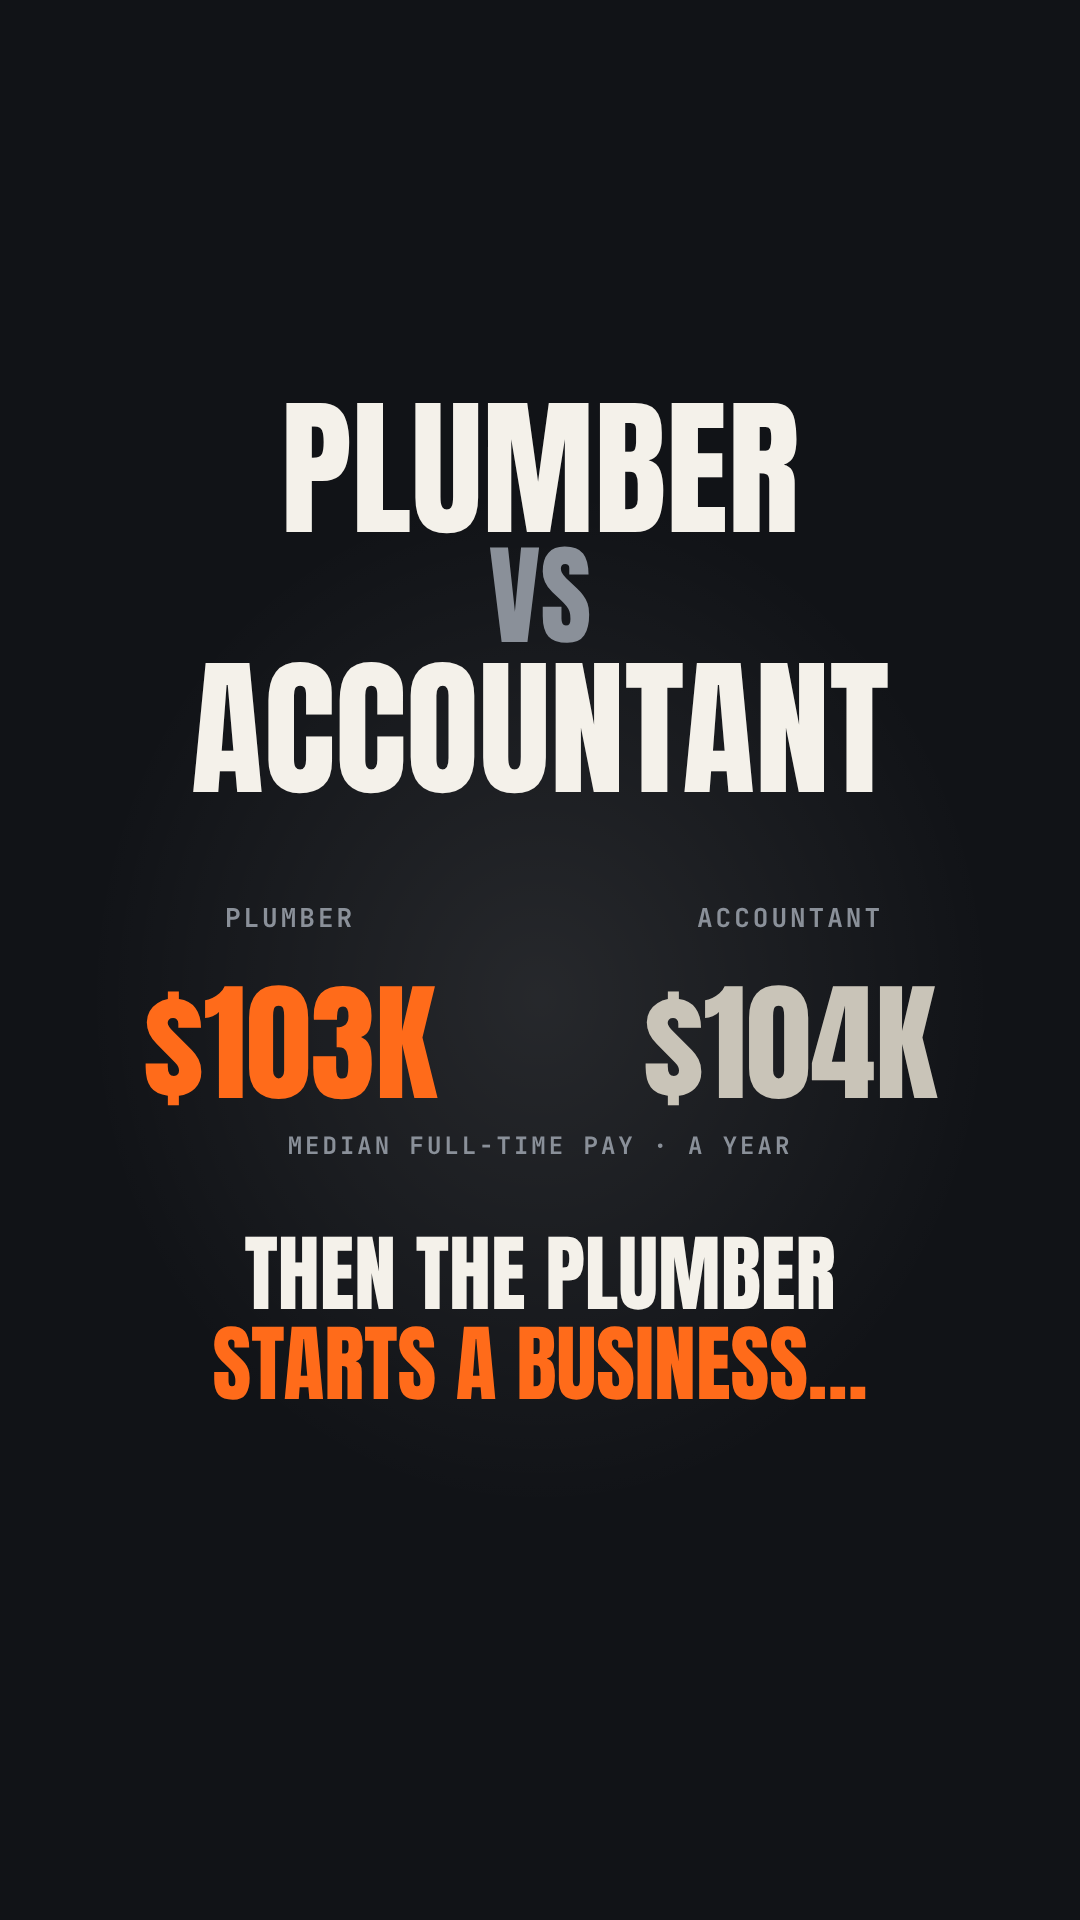
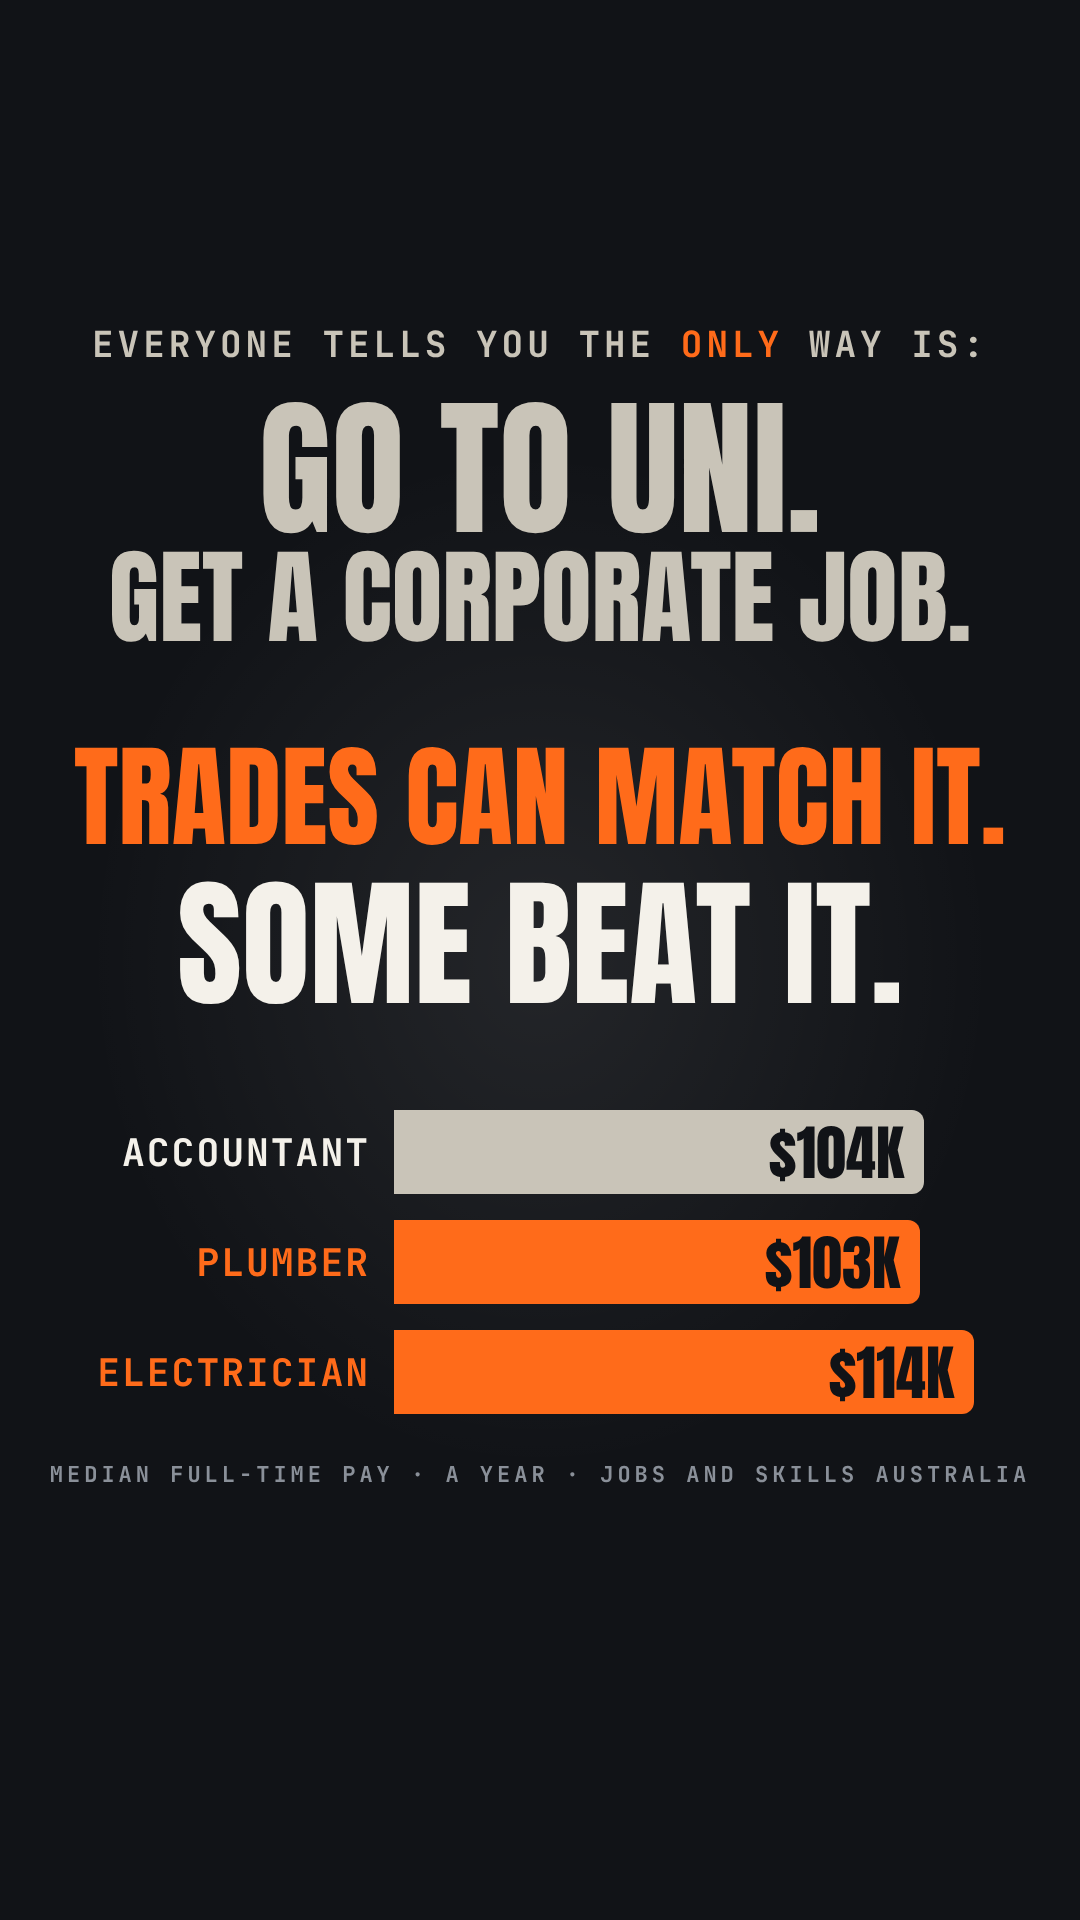
Reel 8 v2: new hook cover (only way is uni? trades can match it), reviewer approved
Claude-Session: https://claude.ai/code/session_01YTFrbTtjWCXiQjP1GQUCya

diff --git a/design/reels/engine/coverA.html b/design/reels/engine/coverA.html
@@ -1,0 +1,23 @@
+<!doctype html><html><head><meta charset="utf-8"><style>
+@font-face{font-family:Anton;src:url(fonts/anton-latin-400-normal.woff2)}
+@font-face{font-family:Inter;font-weight:800;src:url(fonts/inter-latin-800-normal.woff2)}
+@font-face{font-family:JBM;font-weight:700;src:url(fonts/jetbrains-mono-latin-700-normal.woff2)}
+body{margin:0}#c{width:1080px;height:1920px;background:#111317;position:relative;overflow:hidden;font-family:Inter;color:#F4F1EA}
+.spot{position:absolute;inset:0;background:radial-gradient(ellipse 60% 38% at 50% 50%,rgba(255,255,255,.08),rgba(255,255,255,0) 70%)}
+.a{font-family:Anton;line-height:.92;text-align:center;position:absolute;left:0;right:0}
+.m{font-family:JBM;font-weight:700;letter-spacing:4px;text-transform:uppercase;color:#8A9099;text-align:center;position:absolute;left:0;right:0}
+.strike{position:absolute;height:12px;background:#E5372B;border-radius:6px;transform:rotate(-4deg)}
+.row{position:absolute;left:70px;right:70px;display:flex;align-items:center;gap:24px}
+.row .n{flex:none;width:300px;font-family:JBM;font-weight:700;font-size:38px;letter-spacing:2px;text-transform:uppercase;text-align:right}
+.row .b{height:84px;border-radius:0 12px 12px 0;display:flex;align-items:center;justify-content:flex-end;padding-right:20px;box-sizing:border-box;font-family:Anton;font-size:60px;color:#111317}
+</style></head><body><div id="c"><div class="spot"></div>
+<div class="m" style="top:320px;font-size:36px;color:#C9C4B8">Everyone tells you the <span style="color:#FF6B1A">only</span> way is:</div>
+<div class="a" style="top:400px;font-size:150px;color:#C9C4B8">GO TO UNI.</div>
+<div class="a" style="top:550px;font-size:104px;color:#C9C4B8">GET A CORPORATE JOB.</div>
+<div class="a" style="top:745px;font-size:112px;color:#FF6B1A">TRADES CAN MATCH IT.</div>
+<div class="a" style="top:880px;font-size:140px">SOME BEAT IT.</div>
+<div class="row" style="top:1110px"><div class="n">Accountant</div><div class="b" style="width:530px;background:#C9C4B8">$104K</div></div>
+<div class="row" style="top:1220px"><div class="n" style="color:#FF6B1A">Plumber</div><div class="b" style="width:526px;background:#FF6B1A">$103K</div></div>
+<div class="row" style="top:1330px"><div class="n" style="color:#FF6B1A">Electrician</div><div class="b" style="width:580px;background:#FF6B1A">$114K</div></div>
+<div class="m" style="top:1460px;font-size:22px">Median full-time pay · a year · Jobs and Skills Australia</div>
+</div></body></html>

diff --git a/design/reels/owner/REEL-8B.md b/design/reels/owner/REEL-8B.md
@@ -2,7 +2,7 @@
 
 Business-owner Reel with a comment-keyword call to action. 71.0s, 1080×1920, dark explainer style (same look as Reel 7), captions at the top, no music baked in.
 
-Files: `reel-8-owner.mp4`, `reel-8-owner-cover.png`. Source (in the repo): `design/reels/engine/owner.html`, `design/reels/engine/cover8b.html`.
+Files: `reel-8-owner.mp4`, `reel-8-owner-cover.png` (cover: "Everyone tells you the only way is: go to uni, get a corporate job. Trades can match it. Some beat it." with accountant $104K, plumber $103K, electrician $114K). Source (in the repo): `design/reels/engine/owner.html`, `design/reels/engine/coverA.html`.
 
 ## Structure
 
@@ -53,7 +53,7 @@ Sources: Jobs and Skills Australia occupation profiles (ABS Employee Earnings an
 |---|---|---|
 | Accountant median full-time | $2,003/wk → $104K/yr | JSA 2211 Accountants; ×52 = $104,156 |
 | Plumber median full-time | $1,990/wk → $103K/yr | JSA 3341 Plumbers; ×52 = $103,480 |
-| Electrician median full-time | $2,191/wk | JSA occupation profile, ANZSCO page: jobsandskills.gov.au/data/occupation-and-industry-profiles/occupations-anzsco/3411-electricians (ABS EEH May 2025), checked 19 Nov 2026. Some cached copies of the /occupations/ and labour-market-insights pages still show $2,204 (May 2023) |
+| Electrician median full-time | $2,191/wk | JSA occupation profile, ANZSCO page: jobsandskills.gov.au/data/occupation-and-industry-profiles/occupations-anzsco/3411-electricians (ABS EEH May 2025), checked 19 Nov 2026. × 52 = $113,932 → $114K a year (cover). The /occupations/ and labour-market-insights pages show $2,204 (May 2023); use the occupations-anzsco page |
 | Median full-time job | $96K/yr | JSA all occupations median $1,852 × 52 = $96,304. On screen and in the voiceover as the median ("out-earn most workers"), not the average |
 | HELP debt | $52,197 | $17,399 × 3 years, 2026 maximum student contribution (commerce, law, accounting band). Only if fees are deferred; excludes indexation |
 | Newly qualified pay (caption only) | $74K grad / ~$65K plumber | QILT 2025 business median $74,000; award $1,246.54 × 52 = $64,820 (rates.js) |
